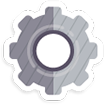
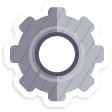
logout button done

diff --git a/src/app/components/cork/cork.component.html b/src/app/components/cork/cork.component.html
@@ -3,8 +3,9 @@
     <h2>corckapp</h2>
 </div>
 
-  <div class="bt-settings" ngDraggable></div>
-  <button type="button" name="button" (click)="newNote()"><div class="bt-newnote" ngDraggable></div></button>
+  <div class="bt-settings" ngDraggable alt="Settings"></div>
+  <button type="button" name="button" (click)="newNote()" alt="New note"><div class="bt-newnote" ngDraggable></div></button>
+  <button type="button" name="button" (click)="logOut()" alt="Logout"><div class="bt-logout" ngDraggable></div></button>
 
 <!-- <div ngDraggable><input type="image" src="../../assets/icon-settings.png" alt="Submit"></div> -->
   <!-- <ul>

diff --git a/src/app/components/cork/cork.component.css b/src/app/components/cork/cork.component.css
@@ -29,8 +29,8 @@
   background-size: contain;
   background-repeat: no-repeat;
   display: inline-block;
-  width: 105px;
-  height: 105px;
+  width: 112px;
+  height: 112px;
 }
 
 .bt-newnote{
@@ -41,8 +41,21 @@
   width: 105px;
   height: 105px;
 }
+.bt-logout{
+  background-image: url("../../../assets/icon-logout.png");
+  background-size: contain;
+  background-repeat: no-repeat;
+  display: block;
+  width: 160px;
+  height: 149px;
+}
+
 button {
   border:none;
   background-color: transparent;
   margin: 20px 0;
+}
+
+button:active, :focus, :checked{
+	outline:0px;
 }

diff --git a/src/styles.css b/src/styles.css
@@ -4,15 +4,6 @@ body{
 
 
 
-
-
-
-
-
-
-
-
-
 /**********************************************************STYLES FOR STANDARD NOTE:*/
 *,
 *:after,
